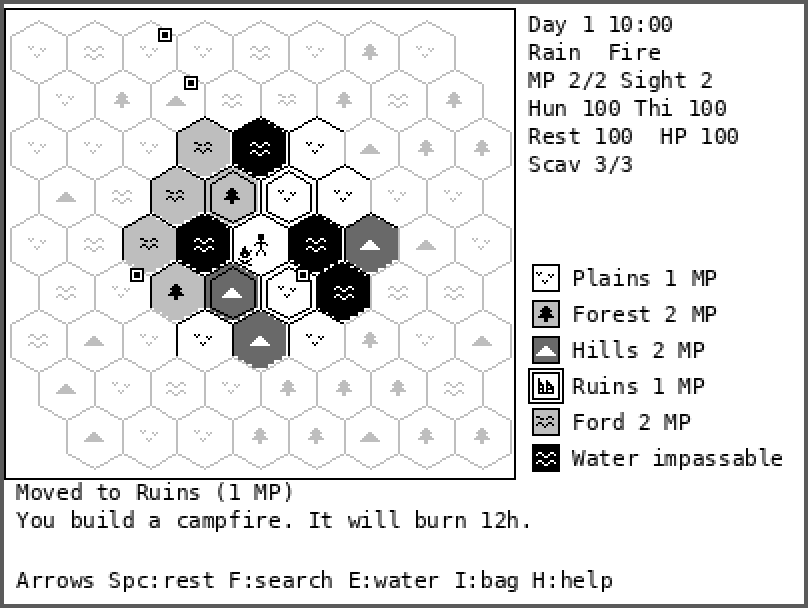
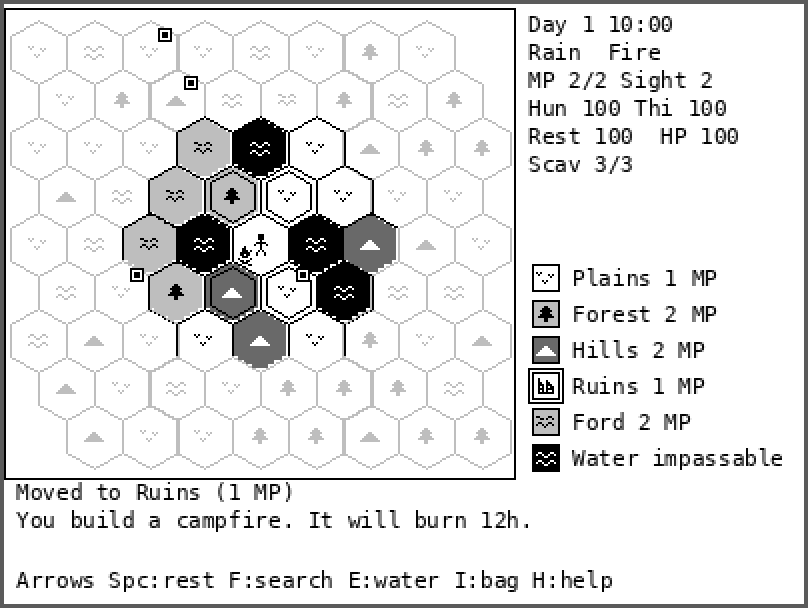
wasteland: draw map hexes as cached bitmap masks
A shaded hex was ~16 fill_rect bands plus 6 lines. The old drawing is
replayed once per hex size into 1-bit masks (fill: 1 call, outline: 2,
inner ring: 1; each within gfx.bitmap's 128 bytes) and drawn at the
hex's rounded center, so a hex is ~5 calls. The firmware dithers bitmaps
like fill_rect, so the map looks the same give or take a pixel at edges.
Map frames: day 449 -> 194 calls, fully explored 877 -> 494.

Claude-Session: https://claude.ai/code/session_01B2S3WcfsAgHLdif2Kpvj91

diff --git a/examples/wasteland/HANDOFF.md b/examples/wasteland/HANDOFF.md
@@ -13,7 +13,7 @@ A complete, playable Lua game for the user's ESP32-S3 SolarTerm (Waveshare RLCD 
 
 - **Verified on the device:** only the early builds ("it works!"). Everything since is tested on a PC against a fake `solaros` module. `DEVICE_TEST.md` is the 10-minute checklist for the board, and **H then V** in game shows the device info page.
 - **Balance** (`tools/balance_sim.lua`, a bot playing 30-day runs with the real code): deaths Easy ~9%, Normal ~22%, Zone-Hardened ~45%.
-- **Perf** (`tools/perf_check.lua`, in the suite): bundle ~410 KB; Lua heap ~765 KB loaded, ~885 KB peak; busiest frames: map with everything explored ~880 gfx calls, the bag ~280 for a full redraw and ~100 for a cursor move. **On the device every gfx call is an event drained 24 per app tick** (25 ms default, `src/apps/solar_os_lua.c` `SOLUA_DRAIN_EVENTS_PER_TICK`), about 960 calls/s, so draw calls are the speed budget, not Lua time.
+- **Perf** (`tools/perf_check.lua`, in the suite): bundle ~410 KB; Lua heap ~765 KB loaded, ~885 KB peak; busiest frames: map with everything explored ~490 gfx calls (~190 by day), the bag ~280 for a full redraw and ~100 for a cursor move. **On the device every gfx call is an event drained 24 per app tick** (25 ms default, `src/apps/solar_os_lua.c` `SOLUA_DRAIN_EVENTS_PER_TICK`), about 960 calls/s, so draw calls are the speed budget, not Lua time.
 - **Open items:** the portrait regeneration waits for the Hugging Face ZeroGPU quota (a scheduled check-in retries it); the user will supply `art/karl.jpg` themself (Karl is a real person: **never generate him**).
 
 ## Code map
@@ -93,6 +93,8 @@ The sim is not byte-reproducible between processes (Lua 5.4 varies `pairs` order
 
 The dated notes below were written as each feature landed; part names in older notes predate the 2026-10-01 split of `05_data` (now `05_data_world`, `06_data_items`, `07_data_encounters`) and of the puzzles into `41_puzzles`.
 
+> **Map hexes as masks (2026-10-01):** `Game.hex_mask(size)` (50_draw_map) replays the old rect-and-line hex (`draw_hex_lines`: 16 fill bands + 6 Bresenham lines) once per size at a whole-pixel center into 1-bit chunks of at most 128 bytes (`HEX_MASKS`, a global for the local limit): fill 26x28 (1 call), outline 29x33 (2 chunks), inner ring 23x27 (1). `draw_hex` draws them at `rnd(cx), rnd(cy)`, so edges may sit up to 1px off the sub-pixel version; boards without bitmaps fall back to `draw_hex_lines`. Map frames: day 449 -> 194 calls, fully explored 877 -> 494. `glyph_test` separates mask sprites from terrain glyphs and checks the masks' size and nesting.
+>
 > **Bag doll as tiles (2026-10-01):** `Game:doll_tiles()` replays `draw_silhouette()` (rects, ~500-800 of them) once into a pixel grid and cuts it into 32x32 1-bit tiles per color (128 bytes each, gfx.bitmap's limit); `draw_doll()` draws those (~50-65 calls). The firmware dithers a bitmap exactly like a fill_rect of the same color (`solar_os_gfx_bitmap` in `src/services/solar_os_gfx.c`), so the picture is unchanged; `inv_redraw_test` checks tiles == rects pixel for pixel for three outfits (its canvas is now installed before the game loads, so sprites are compared too). Cached per outfit in `doll_cache()` (shared with the cursor rings). Full bag frame 886 -> ~280 calls. `draw_silhouette` stays for the cache, the rings, and boards without bitmaps.
 >
 > **Bag screen speed (2026-10-01):** the user found the bag slow on the device (almost a second per cursor move). Cause, from the firmware source: each gfx call is queued and the UI task drains 24 per app tick (25 ms), so the ~1,300-call bag frame took ~1.3 s. Fixes: (1) `Game.draw_pump(on)` (78_draw_help) calls `solaros.tick_interval(2)` while the main loop draws a frame and `tick_interval(0)` right after, so frames drain ~10x faster and the board idles as before (no-op on firmware without it; the device info page says which; the fake checks it is never left on). (2) The doll's slot frames are one `gfx.DARK` rect (the panel dithers it into a broken line) instead of ~30 dash `line` calls each: full bag frame 1,283 -> 886 calls. (3) Cursor-only moves patch the screen: `draw_inventory` keeps `self.inv_drawn = {sig, cursor}` (`inv_signature` = everything shown except the cursor); when only the cursor changed it redraws the cell left, the cell entered, the selected cell and the description (`move_inv_cursor_drawn`, ~50-100 calls). Doll slots restore the 1px ring their cursor drew from `doll_ring` (draw_silhouette replayed once into a recorder and run-length cached per outfit). 90_main clears `inv_drawn` whenever another screen is drawn. `inv_redraw_test.lua` rasterizes every call into a pixel canvas and checks that the patched screen equals a full redraw, pixel for pixel, after every move.

diff --git a/examples/wasteland/DEVICE_TEST.md b/examples/wasteland/DEVICE_TEST.md
@@ -52,7 +52,7 @@ before and start it. For anything that goes wrong, a photo of the screen
   much higher than ~1 MB on the device would be worth reporting.
 - The script is ~410 KB; SolarOS streams it from storage, so size is not
   a limit.
-- Redraws: the map is ~450-900 draw calls, the bag ~280 for a full redraw
+- Redraws: the map is ~200-500 draw calls, the bag ~280 for a full redraw
   and ~100 when only the cursor moves. The device info page (H, V) says
   "Fast drawing: yes" when the firmware has `solaros.tick_interval`; then
   moving the bag cursor should feel instant and other screens should appear
